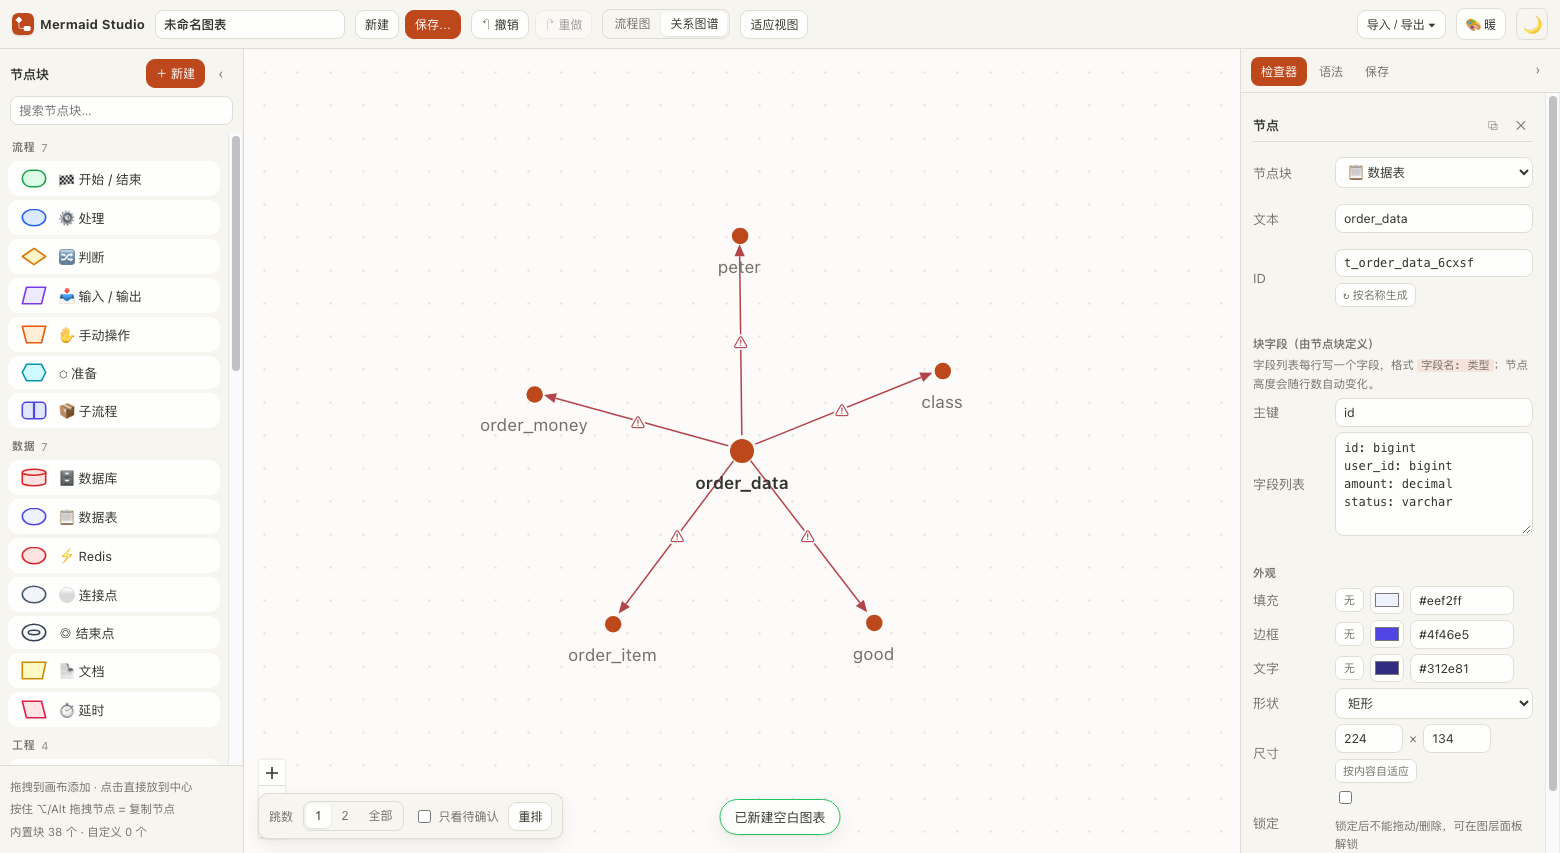
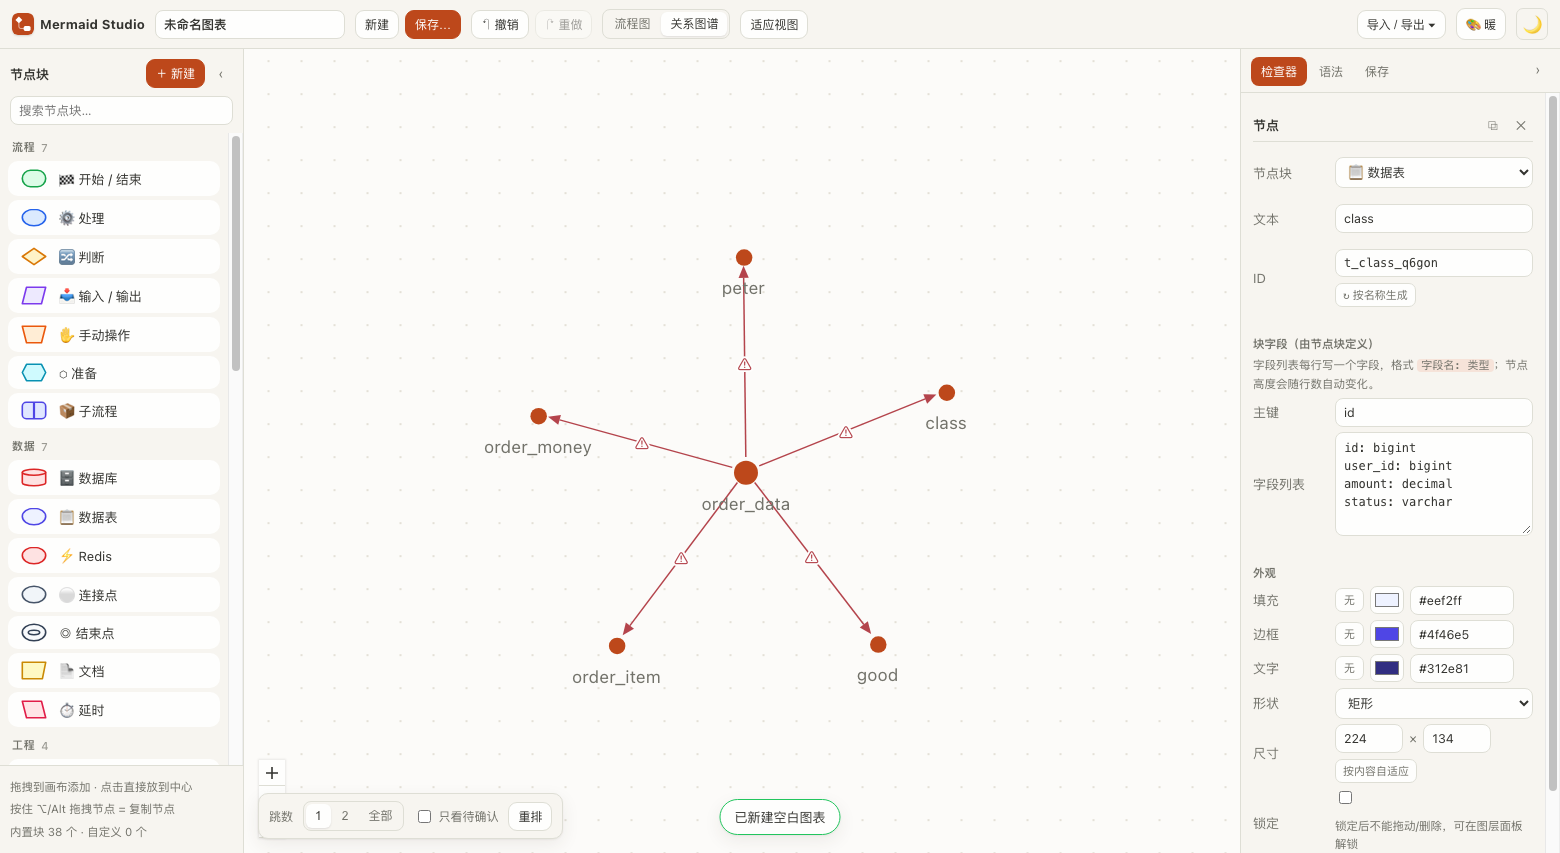
关系图谱：连线配色、初始化不压暗、悬停变绿
- 连线颜色 rgb(100, 116, 139)、1px（深色主题保留自己的 --ms-gedge-line）
- 刚切进来全部正常显示：去掉"打开即自动聚焦"，初始没有焦点、没有压暗；单击才进入 1 跳视图（节点与连线一起半透明）
- 悬停节点圆点变绿，去掉原来的放大（大小已经用来编码连线数）
- e2e 25 条：新增"初始化全正常""悬停变绿不放大""连线颜色"；全量 412 条通过
- 文档同步：D11、§6 交互、§9 验收 25 条、§14 十七处记录、README

diff --git a/src/components/GraphView.tsx b/src/components/GraphView.tsx
@@ -12,7 +12,7 @@ import '@xyflow/react/dist/style.css'
 import { useStore } from '../store'
 import { getRfInstance, setRfInstance } from '../lib/rf'
 import { bfsHops, deriveGraphModel, graphSignature } from '../lib/graphModel'
-import { DEFAULT_SEED, defaultRootId, layoutGraph } from '../lib/graphLayout'
+import { DEFAULT_SEED, layoutGraph } from '../lib/graphLayout'
 import { DOT_ANCHOR_Y, GraphDotNode, NODE_H, NODE_W, dotSize, type GraphDotNodeModel } from './GraphDotNode'
 import { GraphEdgeView, type GraphEdgeModel } from './GraphEdgeView'
 
@@ -50,21 +50,10 @@ function GraphViewInner() {
   const updateSettings = useStore((s) => s.updateSettings)
   const { setCenter } = useReactFlow()
 
-  /**
-   * 打开图谱时默认就有一个焦点：流程图里选中的表，否则取度数最高的表。
-   * 没有焦点时，一张链式的图会被摆成一条横线——那不叫"圆心聚焦"。
-   */
-  const [initialFocus] = useState<string | null>(() => {
-    const initialModel = deriveGraphModel(doc)
-    const selected = doc.nodes.find((n) => n.selected)?.id
-    if (selected && initialModel.nodes.some((n) => n.id === selected)) return selected
-    return defaultRootId(initialModel)
-  })
-
-  /** 高亮用的焦点：立即生效 */
-  const [focusId, setFocusId] = useState<string | null>(initialFocus)
+  /** 高亮用的焦点：立即生效。刚进来没有焦点，全部正常显示 */
+  const [focusId, setFocusId] = useState<string | null>(null)
   /** 布局用的焦点：延迟生效，给双击留出窗口 */
-  const [layoutFocus, setLayoutFocus] = useState<string | null>(initialFocus)
+  const [layoutFocus, setLayoutFocus] = useState<string | null>(null)
   const focusTimer = useRef<number | null>(null)
   const [depth, setDepth] = useState<Depth>(1)
   const [onlyOpen, setOnlyOpen] = useState(false)

diff --git a/src/styles.css b/src/styles.css
@@ -2406,7 +2406,7 @@ body.ms-space-pan .react-flow__pane.dragging {
  * ================================================================== */
 
 .ms-canvas--graph {
-  --ms-gedge-line: #94a3b8;
+  --ms-gedge-line: rgb(100, 116, 139);
 }
 
 [data-theme='dark'] .ms-canvas--graph {
@@ -2460,8 +2460,9 @@ body.ms-space-pan .react-flow__pane.dragging {
   transition: color 0.16s ease;
 }
 
+/* 悬停：圆点变绿（不放大，避免节点大小跟"连线数"这套编码打架） */
 .ms-gdot:hover .ms-gdot__dot {
-  transform: scale(1.25);
+  background: #16a34a;
 }
 
 .ms-gdot:hover .ms-gdot__label {

diff --git a/README.md b/README.md
@@ -618,8 +618,9 @@ src/
 
 ### 2. 怎么用
 
-- **打开就有焦点**：流程图里选中的表（没有选中就是度数最高的表）直接落在圆心，1 跳邻居浮出来，其余压暗到 30%（**压暗不是隐藏**，随时能点回来）。
-- **单击一张表**：它成为焦点并移到圆心。为了不把双击抢掉，重排会延迟 280ms 才发生。
+- **刚切进来全部正常显示**：没有焦点、没有压暗；布局仍以度数最高的表为圆心。
+- **单击一张表**：它成为焦点并移到圆心，**1 跳正常、其余半透明**（节点和连线一起；压暗不是隐藏，随时能点回来）。为了不把双击抢掉，重排会延迟 280ms 才发生。
+- **悬停节点**：圆点变绿（不放大），连线悬停显示 `类型: 说明`。
 - **拖动节点**：手动把某个点摆到想看的空白处（只存在视图里，不写回文档；点「重排」清掉）。拖动空白处或按住空格拖动都是平移画布。
 - **跳数**：左下角「1 / 2 / 全部」（或键盘 `1` / `2` / `0`）。"1 跳看见谁、2 跳又多出谁"是可以数的动作——这正是排查依赖的用法。
 - **点空白**：取消焦点，回到整张图装进视口。（`Esc` 同效）
@@ -653,7 +654,7 @@ src/
 
 ## 十、自动化验证
 
-二十一组基于 Chrome DevTools Protocol 的端到端脚本，共 **411 项断言**（建块→用块→序列化→保存→刷新仍在→导入→往返→撤销→布局→预览→深浅色主题→拖拽→重连→多文档→真鼠标框选→一键编组→拖动/缩放分组→图层隐藏锁定调序→颜色「无」→数据表字段编辑与四向端口→指定端口连线→角色/主题两栏→保存弹框与 .md 内容→选位置写入与自动保存→单击选连线→双击改标签→连线跟随节点移动/缩放→拖入自动选中→颜色行无重置按钮→⌥/Alt 拖拽复制→七个固定 classDef 的颜色与类名→md frontmatter→存疑清单逐条对应虚线→手写勾选与历史变更记录在重新导出后保留→自动保存不动版本号→定时任务 / MQ / Redis 三个新块→Redis 的 JSON 渲染与格式化校验→导入后字段还原→十种块的语义 ID 前缀→检查器里人工改名→改名后连线与分组不断→重名保护与非法字符清洗→导出导入 ID 稳定→12 组前缀组合的类型推荐→类型+说明两段式标签→不合规识别与一键补全→类型下拉→别名归一化→全量备份导出→清空本地数据→从备份恢复（图表+自定义块+设置）→刷新仍在→重复导入不覆盖→渲染引擎默认 pele→pele 渲染保真→二次渲染耗时→深色变量不重渲→导出 SVG 自带主题→切回 mermaid 仍可用→皮肤默认暖色→变量/背景/主按钮跟随→预览与导出的主题同步→一键切冷色→持久化→暖色×深色组合→**全部节点卡片化（shape SVG 归零）→卡片投影/圆角/细描边→选中外环用主色半透明且不染描边→药丸标签→深色下投影仍生效→处理节点渲染成卡片（600 字重标题 / Mermaid 输出不变）→处理节点两行 topic（状态 + 函数名，10px/400 居中，进入 <br/> 标签并可反向导入）→所有节点连接点默认隐藏、悬停才出现→双击编辑光标落文字末尾→编辑时鼠标划字不拖动节点→默认箭头光标与空格拖拽手型→输入框里按空格不切手型→**剧本导入（3 事件/4 变更）与表自动匹配→未回放时保持字段:类型→拖动播放头后表节点显示字段:值且不写回文档→播放时播放头前进+连线闪烁+锁定双击编辑→重置恢复字段:类型→取消核心表/删除事件后导出只含保留内容→未绑定表不导出→删除事件可恢复→快照格式导入逐字段 diff→仓库自带 demo 图/剧本可直接导入且全部匹配→**元素编号 T01–T13 目录 / 代码标记 / 各视图可见性一致→甘特条与左侧事件名逐行对齐→**数据表字段里的 <font color> 富文本渲染并原样进入 Mermaid**→连接口默认上进下出 / 左进右出（导入、切方向翻面、人工指定不被覆盖、老文档自动补端口、导出不携带端口信息）→子图导入后包住全部成员（含嵌套、盒子尺寸与数据一致）→分组垫在节点下面、点节点能选中节点→组内也是从上到下的连线→节点顺序从上到下→自动布局后依然成立→导出保留 subgraph 嵌套→**导入时长标题把节点撑宽、不被省略号截断（短标题保持默认宽）**→**真实复杂图（3 分组 + 28 节点 + 平行边）导入不再崩、分组全包含、点节点不被分组挡、`&` 并列展开成多条边、引号标签清洗、往返稳定**→选中连线后两端节点的连接头常显、用到的那个口高亮、端点节点抬到最上层、取消选中后恢复隐藏→右侧标签条在面板内部、只剩三项（检查器/语法/保存）、相邻标签间隙实测 2px→**新建连线默认空白（无类型/无标签、标为不合规）→按推荐补全后类型正确**→**顶栏不再展示自动保存状态、保存弹框没有自动保存开关、保存目标记在当前图表名下、新建后不写进旧文件**→**选中连线出现＋走位手柄、拖出拐点走折线、拖拐点改走向、检查器显示拐点数并一键清除、双击删拐点、拐点不写进 Mermaid**→**左栏/右栏可收起（画布变宽、留展开条）、可再展开、两栏都收起时画布铺满且无横向溢出**→**有拐点时连线保持直角、拖动节点后自动重排仍无斜线段**→**每条段都有＋可继续加拐点（1 个拐点时 2 个＋、可加到 2 个）、拐点与标签同坐标时拐点在最上层且能拖动**→**关系图谱（分组框/隐藏表/无连线注释不进图→圆点 + 表名在下面（面积随连线数）→连线 1px→打开即有焦点且落在圆心→拖动节点只移动该点且不写回文档→单点聚焦 1 跳亮其余压暗→焦点被摆到圆心→2 跳放大范围→点空白还原→双击回流程图并定位→切走切回坐标逐字节不变→隐藏状态不被改写→视图模式只进 settings 不进文档→刷新后仍在图谱）**）：
+二十一组基于 Chrome DevTools Protocol 的端到端脚本，共 **412 项断言**（建块→用块→序列化→保存→刷新仍在→导入→往返→撤销→布局→预览→深浅色主题→拖拽→重连→多文档→真鼠标框选→一键编组→拖动/缩放分组→图层隐藏锁定调序→颜色「无」→数据表字段编辑与四向端口→指定端口连线→角色/主题两栏→保存弹框与 .md 内容→选位置写入与自动保存→单击选连线→双击改标签→连线跟随节点移动/缩放→拖入自动选中→颜色行无重置按钮→⌥/Alt 拖拽复制→七个固定 classDef 的颜色与类名→md frontmatter→存疑清单逐条对应虚线→手写勾选与历史变更记录在重新导出后保留→自动保存不动版本号→定时任务 / MQ / Redis 三个新块→Redis 的 JSON 渲染与格式化校验→导入后字段还原→十种块的语义 ID 前缀→检查器里人工改名→改名后连线与分组不断→重名保护与非法字符清洗→导出导入 ID 稳定→12 组前缀组合的类型推荐→类型+说明两段式标签→不合规识别与一键补全→类型下拉→别名归一化→全量备份导出→清空本地数据→从备份恢复（图表+自定义块+设置）→刷新仍在→重复导入不覆盖→渲染引擎默认 pele→pele 渲染保真→二次渲染耗时→深色变量不重渲→导出 SVG 自带主题→切回 mermaid 仍可用→皮肤默认暖色→变量/背景/主按钮跟随→预览与导出的主题同步→一键切冷色→持久化→暖色×深色组合→**全部节点卡片化（shape SVG 归零）→卡片投影/圆角/细描边→选中外环用主色半透明且不染描边→药丸标签→深色下投影仍生效→处理节点渲染成卡片（600 字重标题 / Mermaid 输出不变）→处理节点两行 topic（状态 + 函数名，10px/400 居中，进入 <br/> 标签并可反向导入）→所有节点连接点默认隐藏、悬停才出现→双击编辑光标落文字末尾→编辑时鼠标划字不拖动节点→默认箭头光标与空格拖拽手型→输入框里按空格不切手型→**剧本导入（3 事件/4 变更）与表自动匹配→未回放时保持字段:类型→拖动播放头后表节点显示字段:值且不写回文档→播放时播放头前进+连线闪烁+锁定双击编辑→重置恢复字段:类型→取消核心表/删除事件后导出只含保留内容→未绑定表不导出→删除事件可恢复→快照格式导入逐字段 diff→仓库自带 demo 图/剧本可直接导入且全部匹配→**元素编号 T01–T13 目录 / 代码标记 / 各视图可见性一致→甘特条与左侧事件名逐行对齐→**数据表字段里的 <font color> 富文本渲染并原样进入 Mermaid**→连接口默认上进下出 / 左进右出（导入、切方向翻面、人工指定不被覆盖、老文档自动补端口、导出不携带端口信息）→子图导入后包住全部成员（含嵌套、盒子尺寸与数据一致）→分组垫在节点下面、点节点能选中节点→组内也是从上到下的连线→节点顺序从上到下→自动布局后依然成立→导出保留 subgraph 嵌套→**导入时长标题把节点撑宽、不被省略号截断（短标题保持默认宽）**→**真实复杂图（3 分组 + 28 节点 + 平行边）导入不再崩、分组全包含、点节点不被分组挡、`&` 并列展开成多条边、引号标签清洗、往返稳定**→选中连线后两端节点的连接头常显、用到的那个口高亮、端点节点抬到最上层、取消选中后恢复隐藏→右侧标签条在面板内部、只剩三项（检查器/语法/保存）、相邻标签间隙实测 2px→**新建连线默认空白（无类型/无标签、标为不合规）→按推荐补全后类型正确**→**顶栏不再展示自动保存状态、保存弹框没有自动保存开关、保存目标记在当前图表名下、新建后不写进旧文件**→**选中连线出现＋走位手柄、拖出拐点走折线、拖拐点改走向、检查器显示拐点数并一键清除、双击删拐点、拐点不写进 Mermaid**→**左栏/右栏可收起（画布变宽、留展开条）、可再展开、两栏都收起时画布铺满且无横向溢出**→**有拐点时连线保持直角、拖动节点后自动重排仍无斜线段**→**每条段都有＋可继续加拐点（1 个拐点时 2 个＋、可加到 2 个）、拐点与标签同坐标时拐点在最上层且能拖动**→**关系图谱（分组框/隐藏表/无连线注释不进图→圆点 + 表名在下面（面积随连线数）→刚进来全部正常显示→连线 1px→悬停变绿→打开即有焦点且落在圆心→拖动节点只移动该点且不写回文档→单点聚焦 1 跳亮其余压暗→焦点被摆到圆心→2 跳放大范围→点空白还原→双击回流程图并定位→切走切回坐标逐字节不变→隐藏状态不被改写→视图模式只进 settings 不进文档→刷新后仍在图谱）**）：
 
 ```bash
 npm run dev                 # 终端 A
